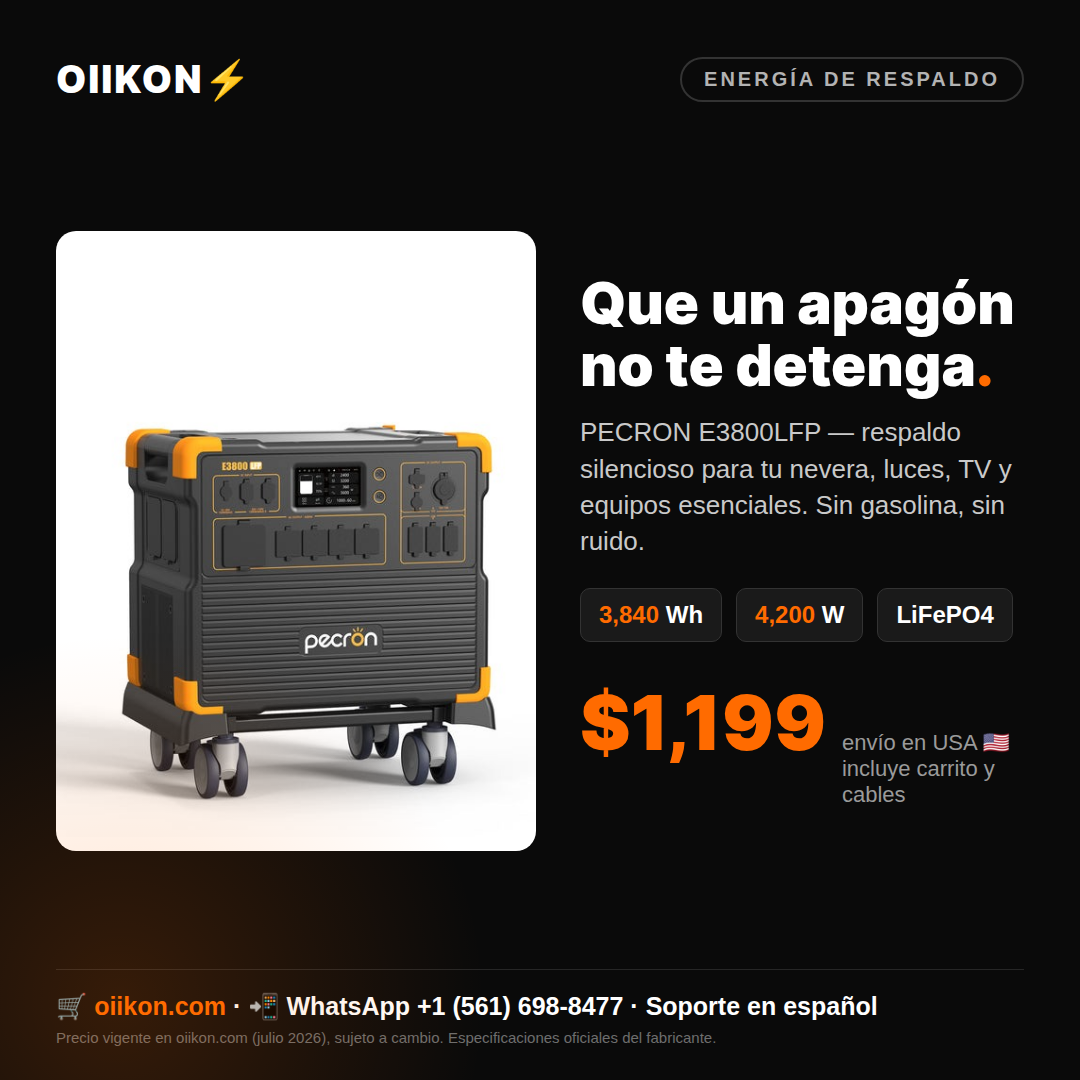
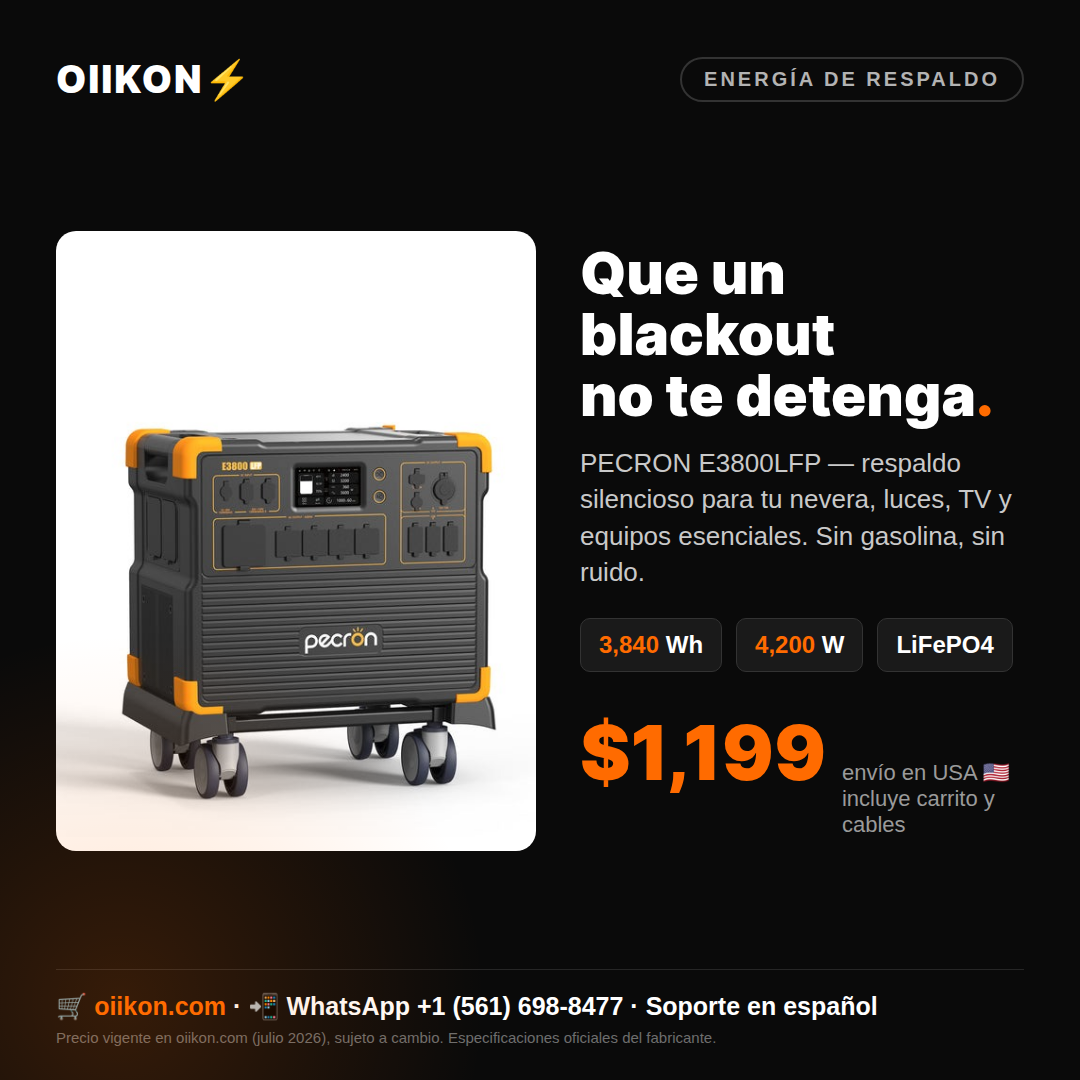
fix(marketing): reemplaza 'apagón' por 'blackout' en post e imagen final
Claude-Session: https://claude.ai/code/session_01EcRMEtf5hybpSELU6rjuhS

diff --git a/marketing/facebook/2026-07-06-post-final/ad.html b/marketing/facebook/2026-07-06-post-final/ad.html
@@ -60,7 +60,7 @@
   <div class="main">
     <div class="photo"></div>
     <div class="right">
-      <h1>Que un apagón<br>no te detenga<span class="accent">.</span></h1>
+      <h1>Que un blackout<br>no te detenga<span class="accent">.</span></h1>
       <div class="sub">PECRON E3800LFP — respaldo silencioso para tu nevera, luces, TV y equipos esenciales. Sin gasolina, sin ruido.</div>
       <div class="chips">
         <div class="spec-chip"><span>3,840</span> Wh</div>

diff --git a/marketing/facebook/2026-07-06-post-final/post-final.md b/marketing/facebook/2026-07-06-post-final/post-final.md
@@ -9,7 +9,7 @@ ambas versiones ANTES de publicar — el precio del post debe ser el del checkou
 
 ## VERSIÓN A — Post orgánico (con comparación)
 
-⚡ **QUE UN APAGÓN NO TE DETENGA** ⚡
+⚡ **QUE UN BLACKOUT NO TE DETENGA** ⚡
 
 La PECRON E3800LFP mantiene tu casa funcionando: nevera, luces, TV, ventiladores y equipos esenciales — sin gasolina, sin ruido, sin humo.
 
@@ -32,7 +32,7 @@ La PECRON E3800LFP mantiene tu casa funcionando: nevera, luces, TV, ventiladores
 
 *Precios de competidores verificados el 5 de julio de 2026 en tiendas oficiales; sujetos a cambio. Especificaciones oficiales de cada fabricante.*
 
-#EnergiaSolar #PowerStation #Apagones #PlantaElectrica #Oiikon #BackupPower
+#EnergiaSolar #PowerStation #Blackout #PlantaElectrica #Oiikon #BackupPower
 
 **Imágenes sugeridas (en orden):** 1) `../2026-07-05-e3800-comparativa/e3800-tabla-productos-1080.png`, 2) fotos propias del producto.
 
@@ -40,7 +40,7 @@ La PECRON E3800LFP mantiene tu casa funcionando: nevera, luces, TV, ventiladores
 
 ## VERSIÓN B — Para pauta / boost (segura para Meta Ads)
 
-⚡ Que un apagón no te detenga.
+⚡ Que un blackout no te detenga.
 
 La PECRON E3800LFP respalda tu nevera, luces, TV y equipos esenciales — sin gasolina y sin ruido. 3,840 Wh · 4,200 W · batería LiFePO4.
 
@@ -62,7 +62,7 @@ La PECRON E3800LFP respalda tu nevera, luces, TV y equipos esenciales — sin ga
 ✅ **Sin ratings de terceros en ads** — las estrellas (5.0/4.7) de la tabla comparativa solo si provienen de una fuente real citable; en anuncios, omitirlas.
 ✅ **Sin claims médicos** — decimos "equipos esenciales", no promesas sobre equipos médicos ni salud.
 ✅ **Sin engagement bait** — no "etiqueta a un amigo", "comparte y gana", etc. (Meta lo penaliza en alcance).
-✅ **Sin atributos personales** — no dirigirse al lector afirmando su condición ("tú que no tienes luz…"); el hook es sobre el apagón, no sobre la persona.
+✅ **Sin atributos personales** — no dirigirse al lector afirmando su condición ("tú que no tienes luz…"); el hook es sobre el blackout, no sobre la persona.
 ✅ **Producto permitido** — estaciones de energía portátiles no son categoría restringida en Meta Commerce.
 ✅ **Landing coherente** — el enlace lleva a oiikon.com con el mismo producto y el mismo precio del post.
 ✅ **FTC / código interno (§3.2)** — cada cifra (Wh, W, ciclos, garantía) respaldada por el fabricante; nada inventado; disclosure de fecha en la comparación.
